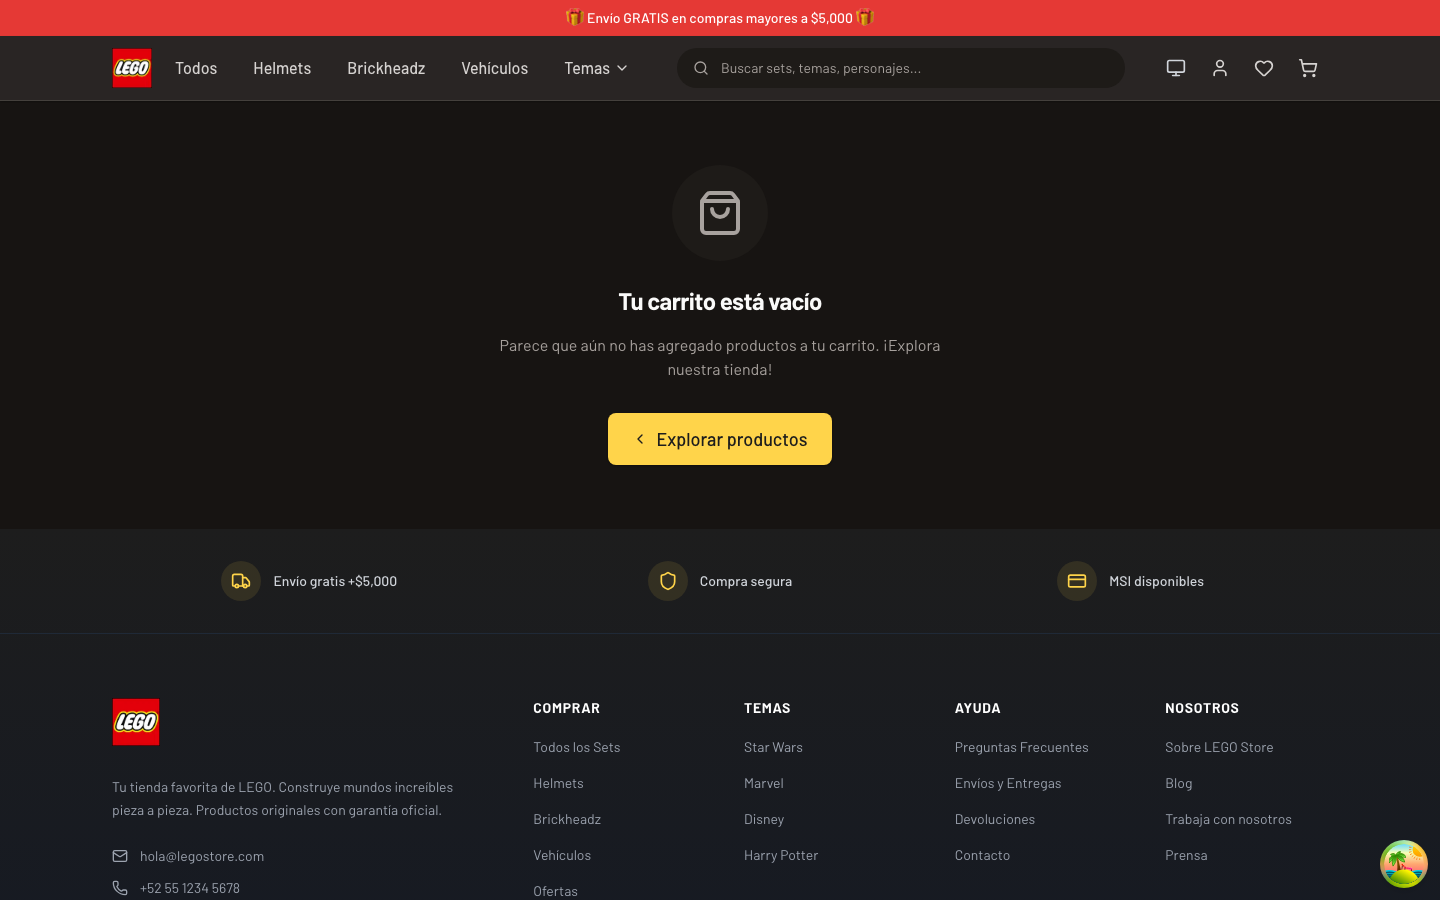
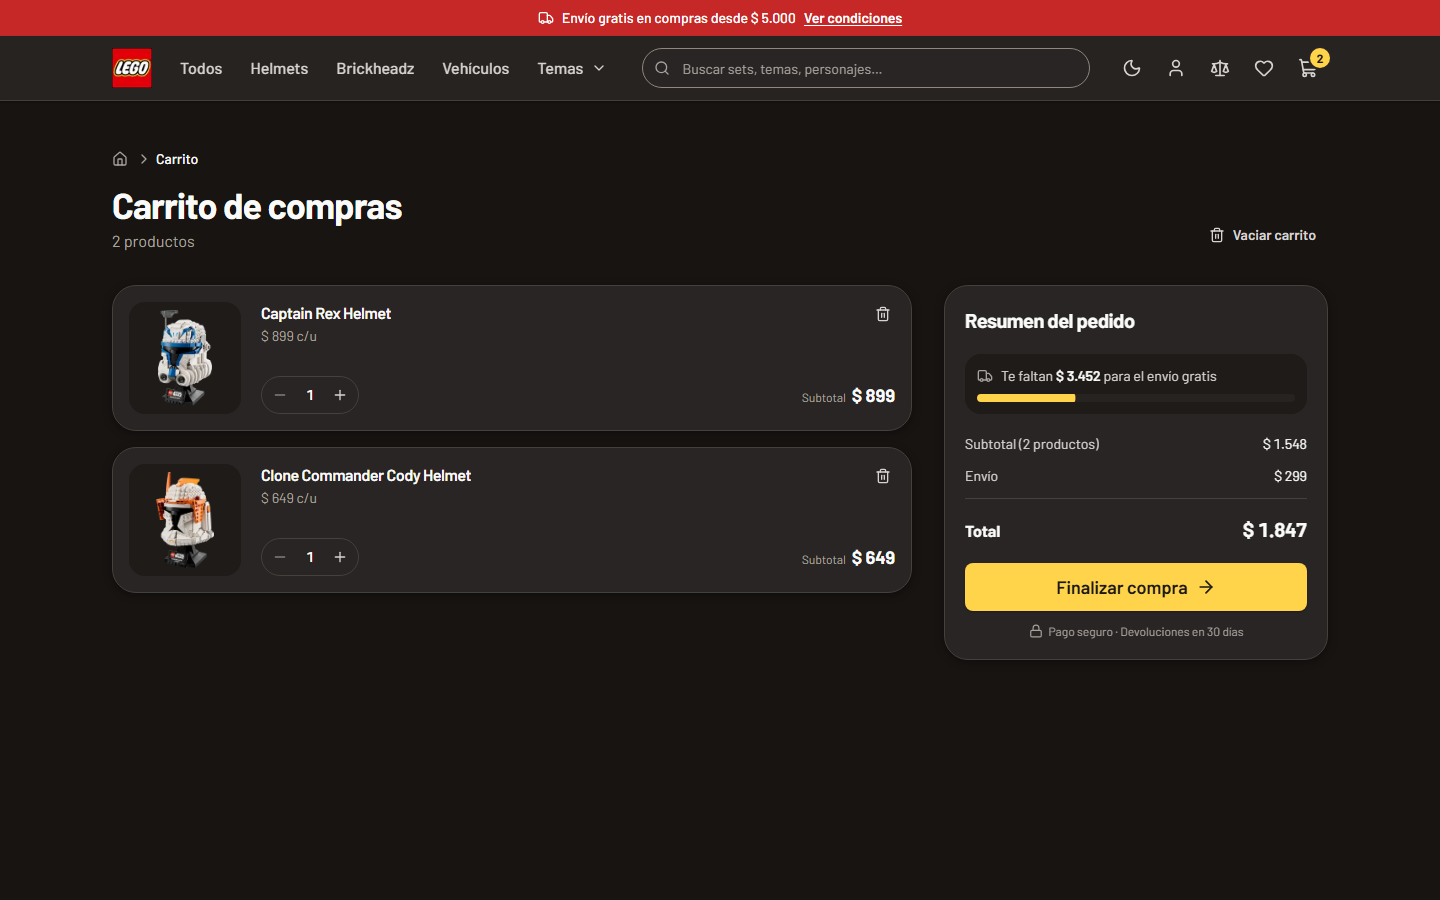
docs: refresh README, screenshots and CHANGELOG for the overhaul
- Screenshots regenerated from the current UI with `npm run screenshots`
  (home light/dark, product page, cart, checkout, phone).
- README: structure, primitives, guardrails (now errors), performance and
  Lighthouse scope (SEO target excludes the noindex cart/checkout), tests
  and CI.
- CHANGELOG: 2.0.0 entry for the UI overhaul.

diff --git a/README.md b/README.md
@@ -14,16 +14,28 @@ todas las lecturas pasan por una sola capa (`src/lib/api`).
     <td><img src="./screenshots/home-light.png" alt="Inicio, modo claro" width="400"/></td>
     <td><img src="./screenshots/home-dark.png" alt="Inicio, modo oscuro" width="400"/></td>
   </tr>
+  <tr>
+    <td><img src="./screenshots/product-detail.png" alt="Ficha de producto" width="400"/></td>
+    <td><img src="./screenshots/cart.png" alt="Carrito, modo oscuro" width="400"/></td>
+  </tr>
+  <tr>
+    <td><img src="./screenshots/checkout.png" alt="Checkout, paso de envío" width="400"/></td>
+    <td><img src="./screenshots/mobile.png" alt="Inicio en un teléfono, modo oscuro" width="200"/></td>
+  </tr>
 </table>
+
+Las capturas se regeneran con `npm run screenshots` contra un build de
+producción en marcha (`npm run build && npm start`).
 
 ## Stack
 
 - **Next.js 16** (App Router, Turbopack) + **React 19**, TypeScript 5.9
 - **Tailwind CSS 4** con tokens de diseño en `@theme` (`src/app/globals.css`)
 - Primitivos estilo **shadcn/ui sobre Base UI** (`src/components/ui`)
-- **motion** (`motion/react`) para animaciones, con presets en `src/lib/motion.ts`
+- **motion** (`motion/react`, vía `LazyMotion` + `m.*`) para animaciones, con presets en `src/lib/motion.ts`
 - **Zustand** (estado del cliente persistido), **TanStack Query** (datos en islas cliente)
-- **React Hook Form** + **Zod** (formularios del checkout), **sonner** (toasts)
+- **React Hook Form** + **Zod** (checkout, contacto y reseñas; se cargan solo donde se usan), **sonner** (toasts)
+- Barlow servida por `next/font` (self-hosted y precargada)
 - **Vitest** (unit + Storybook), **Playwright** (E2E), **Storybook 10** con a11y
 
 Requiere Node `^22.13` o `>=24`.
@@ -38,33 +50,46 @@ Requiere Node `^22.13` o `>=24`.
 | `npx tsc --noEmit` | Chequeo de tipos |
 | `npm test` | Vitest en modo watch (`npx vitest run` para una corrida) |
 | `npm run test:coverage` | Cobertura de los tests unitarios |
-| `npm run test:e2e` | Playwright (levanta `npm run dev` si no hay servidor) |
-| `npm run storybook` | Storybook en http://localhost:6006 |
+| `npm run test:e2e` | Playwright: proyecto `chromium` contra `npm run dev` y proyecto `prod` contra un build en el puerto 3100 (los levanta si no están) |
+| `npm run storybook` / `npm run build-storybook` | Storybook en http://localhost:6006 / build estático |
+| `npm run size -- <url>` | JS de primera carga (gzip) por ruta clave contra su presupuesto, sobre un `npm start` en marcha |
+| `npm run screenshots` | Regenera las capturas de `screenshots/` (`BASE_URL` para otro origen) |
 
 ## Estructura
 
 ```
 src/
   app/                 Rutas (App Router). Páginas = Server Components.
+    (info)/            Ayuda y la tienda: faq, envios, devoluciones, contacto,
+                       nosotros, terminos, privacidad (layout con menú lateral)
     api/               Route Handlers para las islas cliente
       products/        GET /api/products (filtros, orden, paginación)
       products/by-ids/ GET /api/products/by-ids?ids=1,2
+      products/facets/ GET /api/products/facets (conteos en vivo de los filtros)
       search/          GET /api/search?q= (autocompletado)
-    checkout/_components/  Pasos del checkout
+    cart/ wishlist/ compare/ search/ category/ item/
+    checkout/_components/  Pasos, resumen y confirmación del checkout
   components/
     ui/                Primitivos del sistema de diseño (barrel index.ts)
-    product/ cart/ search/ layout/ home/ motion/
+    layout/            Navbar, Footer, PageHeader, menús y paneles (carga diferida)
+    product/           Tarjeta, grilla, catálogo y filtros, ficha, galería, reseñas (reviews/)
+    cart/ wishlist/ compare/ search/ home/ info/ forms/ icons/
+    motion/            Reveal / Stagger para Server Components
   data/                Mock del catálogo (solo lo lee src/lib/api)
   hooks/               useProductActions, useProductsByIds, useInfiniteScroll…
   lib/
     api/               Gateway de datos (server-only)
     api-client.ts      Llamadas del navegador a /api/*
     productQuery.ts    ProductQuery <-> URL search params
-    motion.ts theme.ts utils.ts validations/
-  stores/              Zustand: cart, wishlist, compare, recentlyViewed, theme, reviews, checkout
+    pricing.ts         Subtotal, envío y totales (carrito y checkout)
+    card.ts argentina.ts  Tarjetas, provincias y códigos postales
+    flyToCart.ts       Animación "vuela al carrito" (Web Animations API)
+    motion.ts motion-features.ts theme.ts metadata.ts utils.ts validations/
+  stores/              Zustand: cart, wishlist, compare, recentlyViewed, theme, reviews, checkout, ui
   types/               Tipos de dominio (única fuente)
 __tests__/             Tests unitarios y de componentes (Vitest + Testing Library)
-e2e/                   Tests de Playwright
+e2e/                   Tests de Playwright (e2e/prod: contra el build de producción)
+scripts/               Presupuesto de JS y capturas del README
 ```
 
 ## Arquitectura de datos
@@ -100,25 +125,53 @@ e2e/                   Tests de Playwright
   `globals.css`, expuestos como utilidades: `bg-bg`, `bg-surface`, `text-fg`,
   `text-fg-muted`, `bg-primary`/`text-on-primary`, `text-danger`, `text-info`… El
   contraste AA se verifica en `__tests__/design/tokens.test.ts`.
+- La paleta por defecto de Tailwind está desactivada (`--color-*: initial`):
+  solo existen los colores de los tokens.
 - **Primitivos** en `src/components/ui`: Button (con `render` para links),
-  IconButton, Field, Input, Select, Checkbox, RadioGroup, Slider, Dialog, Sheet,
-  Tabs, Card, Badge, Rating, Price, EmptyState, Skeleton, QuantitySelector,
-  Toast, Breadcrumbs. Cada uno con stories en claro y oscuro.
-- **Guardas de ESLint**: colores crudos de la paleta, `dark:` fuera de `ui/`,
-  alias heredados y duraciones numéricas se marcan (errores dentro de `ui/`).
+  IconButton, Field, Input, Textarea, Select, Checkbox, RadioGroup, Slider,
+  Dialog, Sheet, Tabs, Card, Badge, Rating, RatingInput, Price, EmptyState,
+  Skeleton, QuantitySelector, Spinner, Toast, Breadcrumbs, ThemeToggle. Cada
+  uno con stories en claro y oscuro.
+- **Guardas de ESLint** (errores en todo `src/`): colores crudos de la paleta,
+  alias heredados, `dark:` y duraciones numéricas de movimiento. Dentro de
+  `ui/` rigen las mismas reglas, salvo que `dark:` está permitido.
 - **Movimiento**: presets en `src/lib/motion.ts` (150–300 ms) y
-  `<MotionConfig reducedMotion="user">`; respetan `prefers-reduced-motion`.
+  `<MotionConfig reducedMotion="user">`; respetan `prefers-reduced-motion`. Los
+  componentes usan `m.*` dentro de `<LazyMotion>`: las features de motion se
+  cargan de forma asíncrona, fuera del JS de primera carga.
+
+## Rendimiento
+
+- Los paneles poco usados (carrito lateral, menú y búsqueda móviles, vista
+  rápida, formulario de reseñas) se cargan bajo demanda con `next/dynamic` y se
+  precargan al pasar el puntero o enfocar su botón.
+- `npm run size` mide el JS de primera carga por ruta (gzip, sin los polyfills
+  `noModule`) contra un presupuesto por ruta; CI lo corre en cada PR.
+- Lighthouse CI (`lighthouserc.json`) audita `/`, `/item/1`, `/category/helmet`,
+  `/cart` y `/checkout`. El objetivo de SEO 100 excluye `/cart` y `/checkout`:
+  son `noindex` a propósito (lo correcto en páginas transaccionales), así que no
+  se afirma SEO sobre ellas.
 
 ## Tests
 
 - `__tests__/lib`: gateway de datos (búsqueda, filtros, orden, paginación,
   casos borde), parser de queries y Route Handlers.
 - `__tests__/stores`: stores, selectores, migraciones e hidratación.
-- `__tests__/components`: primitivos, ProductCard, useProductActions,
-  SearchAutocomplete.
+- `__tests__/components`: primitivos (`ui/`), carrito lateral, carrito /
+  favoritos / comparador, catálogo y filtros, checkout, formularios, galería,
+  ficha de producto, reseñas, autocompletado, useProductActions,
+  useProductsByIds y suscripciones a los stores.
+- `__tests__/config`: cada link de navegación resuelve a una página.
 - `__tests__/lint` y `__tests__/design`: guardas de ESLint y contraste de tokens.
 - Storybook: cada story se renderiza en Chromium con axe (a11y como error).
-- `e2e/`: flujos de inicio, búsqueda, carrito y checkout.
+- `e2e/`: inicio, catálogo (filtros en la URL, orden, precio), búsqueda, ficha,
+  carrito, listas (favoritos y comparador), checkout (con axe), shell (navbar,
+  footer, páginas de información, 404), estado persistido y el proyecto `prod`
+  (navegación y transiciones sobre el build de producción).
+
+CI (`.github/workflows/ci.yml`): lint, tipos, tests con cobertura, build de
+Storybook, build, E2E, auditoría de dependencias de producción, presupuesto de
+JS y Lighthouse.
 
 ## Licencia
 

diff --git a/CHANGELOG.md b/CHANGELOG.md
@@ -5,6 +5,52 @@ All notable changes to this project will be documented in this file.
 The format is based on [Keep a Changelog](https://keepachangelog.com/en/1.0.0/),
 and this project adheres to [Semantic Versioning](https://semver.org/spec/v2.0.0.html).
 
+## [2.0.0] - 2026-10-17
+
+UI overhaul (see `docs/superpowers/specs/2026-10-17-ui-overhaul-design.md`).
+
+### Changed
+
+- **Framework**: Next.js 16 (App Router, Turbopack, `proxy.ts`) and React 19;
+  pages are Server Components with small client islands. Node `^22.13 || >=24`.
+- **Styling**: Tailwind CSS 4 with three-tier design tokens in `@theme`
+  (primitives, semantic, component), AA contrast checked by tests, dark mode on
+  semantic tokens only. Tailwind's default palette is disabled.
+- **Components**: shadcn-style primitives on Base UI (`src/components/ui`) with
+  Storybook 10 stories, a11y checked as errors.
+- **Data**: every read goes through `src/lib/api` (async, serializable; ready
+  for the backend); client islands use Route Handlers.
+- **Motion**: `motion` (`motion/react`) instead of framer-motion, presets in
+  `src/lib/motion.ts` (150-300 ms), reduced motion respected, LazyMotion.
+- **Lint**: ESLint 9 flat config; design-system guardrails (raw palette,
+  legacy aliases, `dark:`, numeric timing) are errors.
+- **Performance**: Barlow via `next/font`, on-demand panels and review form,
+  first-load JS budgets per route (`npm run size`).
+
+### Added
+
+- Catalogue filters in the URL with live facet counts, compare page with
+  highlighted differences, wishlist, undo toasts, checkout in three steps with
+  Argentine address and card validation, info pages (FAQ, envíos, devoluciones,
+  contacto, nosotros, términos, privacidad), designed 404.
+- Tests: Vitest (unit + Storybook projects), Playwright E2E including a
+  production project; CI runs lint, types, unit, Storybook build, build, E2E,
+  audit, JS budget and Lighthouse.
+
+### Removed
+
+- The unused i18n system (the UI is Spanish only).
+- Unused or duplicated dependencies (react-hot-toast, keen-slider,
+  framer-motion, among others) and dead components.
+
+### Accessibility
+
+- WCAG 2.1 AA target: labelled controls, landmarks and heading order, visible
+  focus, keyboard support in every widget. Lighthouse accessibility 100 and
+  best practices 100 on the key routes (mobile and desktop).
+
+---
+
 ## [1.1.0] - 2024-12-09
 
 ### Added
